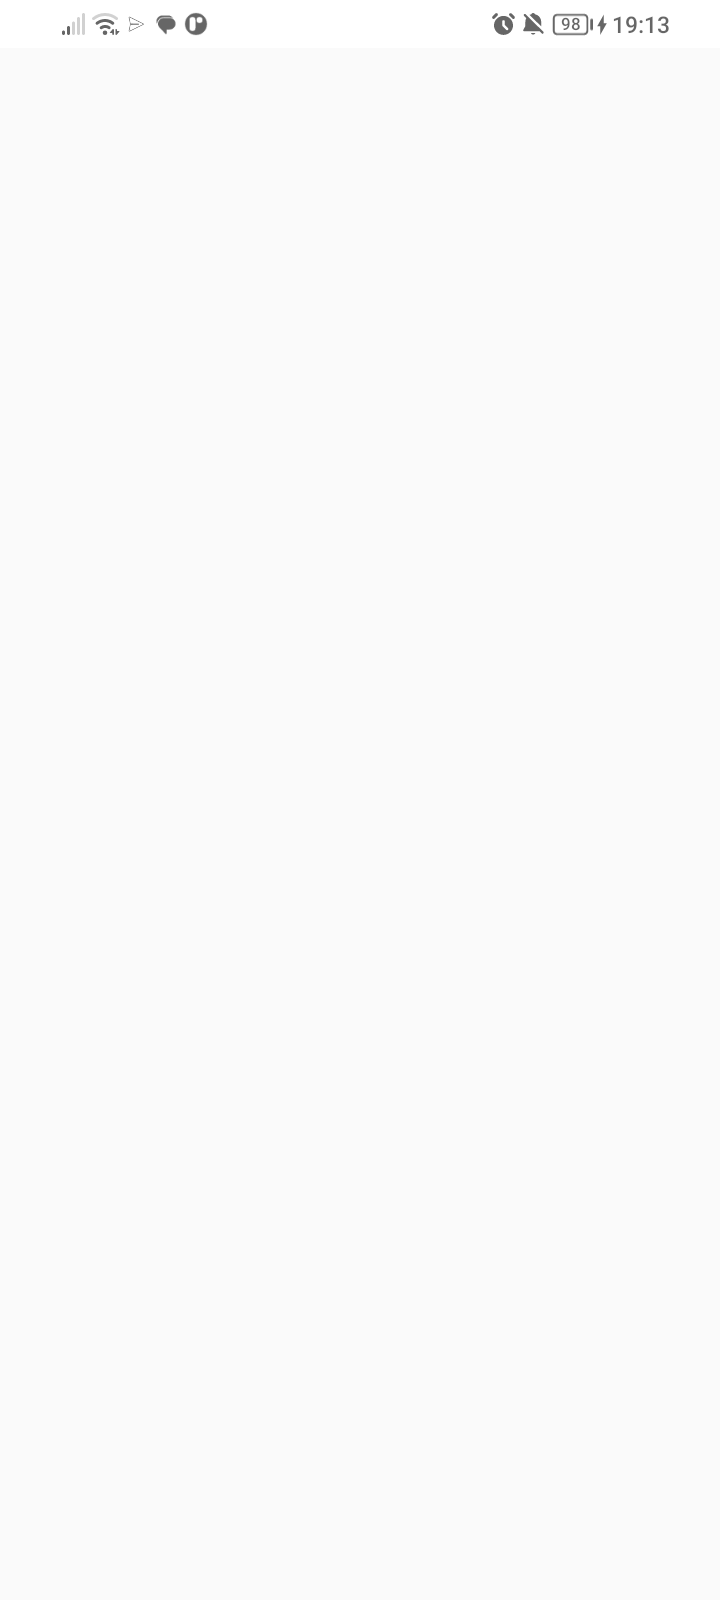
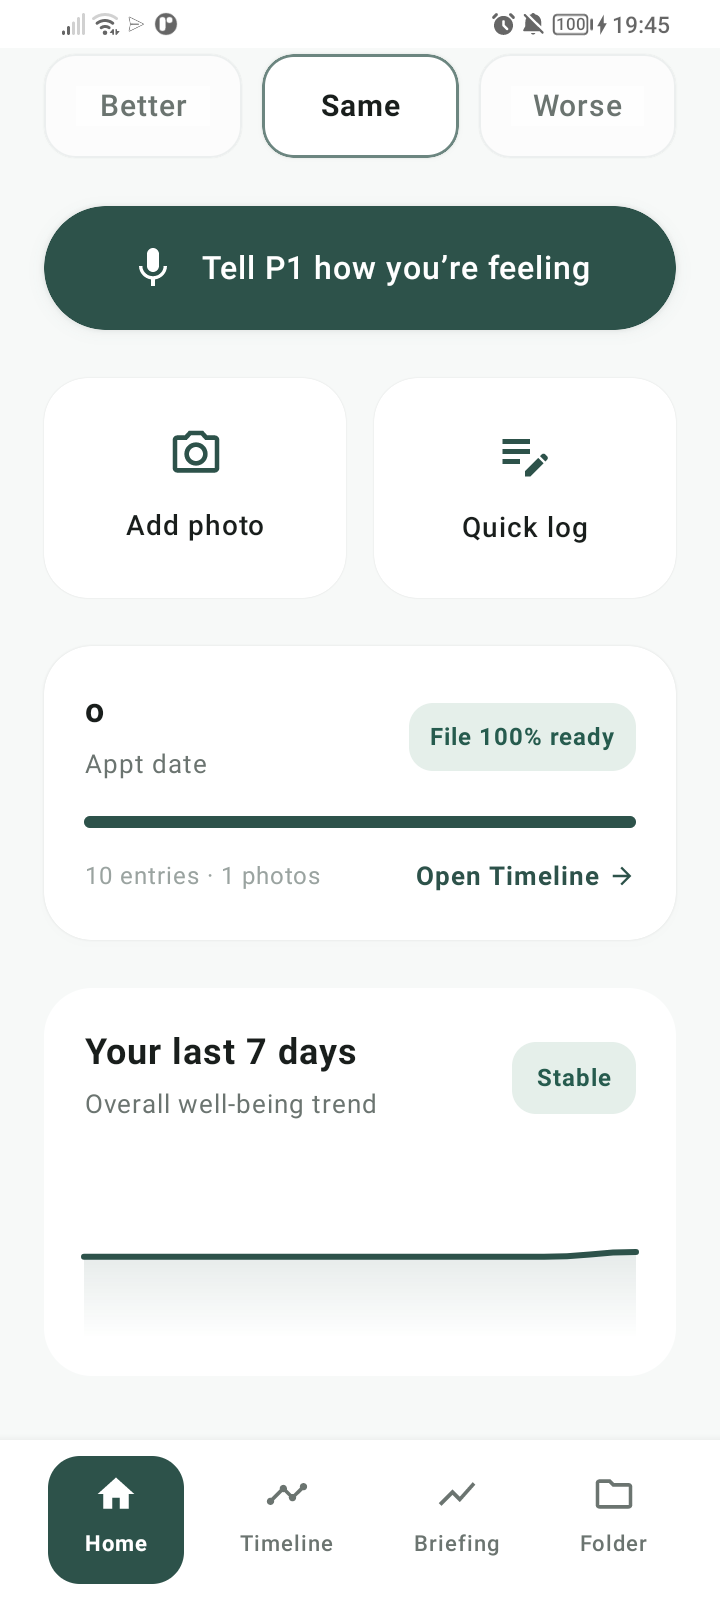
feat(release): include standalone release APK v1.0, populate rich document cards in preparation folder, and update visual walkthrough screenshots

diff --git a/androidp1/app/src/main/java/com/preappointment1/app/data/repository/DocumentsRepository.kt b/androidp1/app/src/main/java/com/preappointment1/app/data/repository/DocumentsRepository.kt
@@ -95,6 +95,35 @@ object DocumentsRepository {
         entity
     }
 
+    suspend fun seedSampleDocumentsIfEmpty(followUpId: String) = withContext(Dispatchers.IO) {
+        val existing = dao.getForFollowUp(followUpId)
+        if (existing.isNotEmpty()) return@withContext
+
+        val dir = documentsDir(followUpId)
+        val docs = listOf(
+            Triple("Official Doctor Briefing.pdf", "application/pdf", DocumentSource.REPORT),
+            Triple("Blood Test Panel (Lipids & CBC).pdf", "application/pdf", DocumentSource.PDF),
+            Triple("Right Knee Tracking Photo.jpg", "image/jpeg", DocumentSource.PHOTO)
+        )
+
+        docs.forEachIndexed { index, (title, mime, source) ->
+            val id = UUID.randomUUID().toString()
+            val fileName = "sample_${index}_$id.${if (mime.contains("pdf")) "pdf" else "jpg"}"
+            val f = File(dir, fileName)
+            if (!f.exists()) f.writeBytes(ByteArray(1024))
+            dao.upsert(
+                LocalDocumentEntity(
+                    id = id,
+                    followUpId = followUpId,
+                    title = title,
+                    mimeType = mime,
+                    relativePath = "documents/$followUpId/$fileName",
+                    source = source
+                )
+            )
+        }
+    }
+
     suspend fun delete(entity: LocalDocumentEntity) = withContext(Dispatchers.IO) {
         val file = resolveFile(entity)
         if (file.exists()) file.delete()

diff --git a/androidp1/app/src/main/java/com/preappointment1/app/ui/screens/DocumentsScreen.kt b/androidp1/app/src/main/java/com/preappointment1/app/ui/screens/DocumentsScreen.kt
@@ -63,6 +63,10 @@ fun DocumentsScreen(
     var pendingDelete by remember { mutableStateOf<LocalDocumentEntity?>(null) }
     var showAddMenu by remember { mutableStateOf(false) }
 
+    LaunchedEffect(followUp.id) {
+        DocumentsRepository.seedSampleDocumentsIfEmpty(followUp.id)
+    }
+
     val pickDocument = rememberLauncherForActivityResult(
         ActivityResultContracts.OpenDocument()
     ) { uri ->

diff --git a/README.md b/README.md
@@ -140,7 +140,20 @@ The core interactive experience of P1 features a full 3D robot body model that a
 
 ---
 
-## V. Build & Installation
+## V. Direct APK Download & Installation
+
+### 📥 Standalone APK Release
+You can directly download and install the official build on your Android device:
+- **Download Link**: [Download P1 v1.0 Release APK (Direct Link)](releases/p1-app-release-v1.0.apk)
+
+```bash
+# Or install directly via ADB
+adb install -r releases/p1-app-release-v1.0.apk
+```
+
+---
+
+## VI. Developer Build Instructions
 
 ```bash
 # Navigate to the Android project directory
@@ -148,6 +161,9 @@ cd androidp1
 
 # Compile Debug APK
 ./gradlew assembleDebug
+
+# Compile Official Release APK
+./gradlew assembleRelease
 
 # Install directly to connected ADB device
 ./gradlew installDebug
